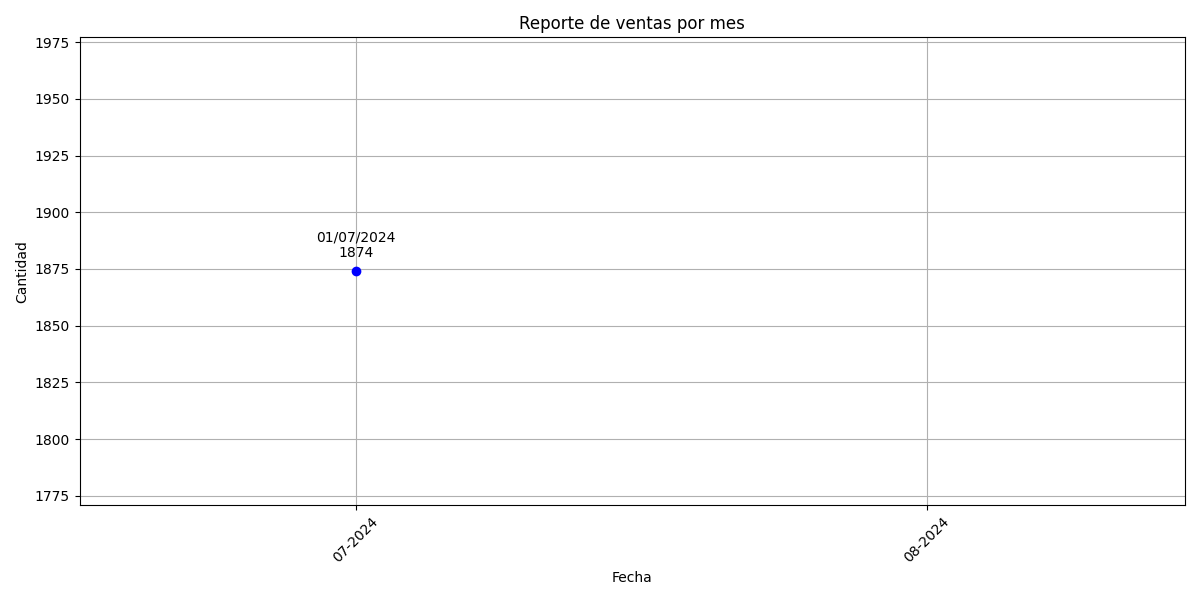
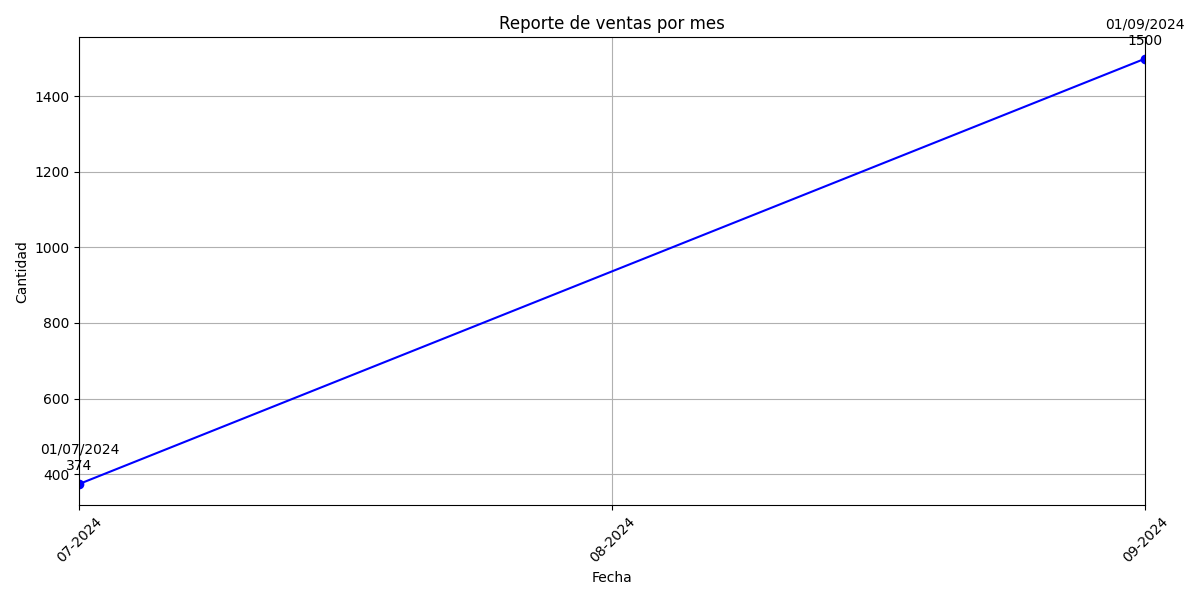
Validacion de archivos

diff --git a/Main/Productos.py b/Main/Productos.py
@@ -1,6 +1,8 @@
 import csv
 import json
 import os
+import re
+
 from reportlab.lib.pagesizes import letter
 from reportlab.lib import colors
 from reportlab.platypus import SimpleDocTemplate, Table, TableStyle, Spacer
@@ -28,39 +30,72 @@ class Producto:
 
     @classmethod
     def leer_archivo(cls):
-        #archivo_proveedores = 'C:\\Users\\Deniam\\OneDrive\\Documentos\\GitHub\\Tienda-convenencia\\Archivos\\Archivos_productos\\productos.csv'
         base_dir = os.path.dirname(os.path.abspath(__file__))
         archivo_proveedores = os.path.join(base_dir, 'Archivos', 'Archivos_productos', 'productos.csv')
+
+        codigos_procesados = set()
+        nombres_procesados = set()
+
         try:
             with open(archivo_proveedores, encoding='utf8') as archivo_productos:
                 reader = csv.DictReader(archivo_productos)
                 filas = list(reader)
                 if not filas or all(not any(row.values()) for row in filas):
-                    print('No hay datos que leer 1')
+                    print('No hay datos que leer')
                     return
                 for row in filas:
-                    producto = Producto(
-                        row["codigo"],
-                        row["nombre"],
-                        row["marca"],
-                        row["proveedor"],
-                        row["cantidad"],
-                        row["tamanio"],
-                        row["precio"],
-                        row["fecha_caducidad"]
-                    )
-                    Producto.lista_productos.append(producto)
-                    producto.entradas = row["entradas"]
-                    producto.salidas = row["salidas"]
-                    producto.stock = row["stock"]
-                    producto.existenciasAnteriores = row["existencias_anteriores"]
-                    producto.ajuste = row["ajuste"]
+                    codigo = row["codigo"]
+                    nombre = row["nombre"]
+
+                    if codigo in codigos_procesados or nombre in nombres_procesados:
+                        print(f'Fila ignorada por código o nombre duplicado: {row}')
+                        continue
+
+                    try:
+                        cantidad = int(row["cantidad"])
+                        precio = float(row["precio"])
+                        entradas = int(row["entradas"])
+                        salidas = int(row["salidas"])
+                        stock = int(row["stock"])
+
+                        if not (cantidad > 0 and precio > 0 and entradas >= 0 and salidas >= 0 and stock >= 0):
+                            print(f'Datos inválidos en la fila: {row}')
+                            continue
+
+                        if not re.match(r'^\d+(kg|g|L|ml|pcs|m|cm|in)$', row["tamanio"]):
+                            print(f'Formato de tamaño inválido en la fila: {row}')
+                            continue
+
+                        producto = Producto(
+                            codigo,
+                            nombre,
+                            row["marca"],
+                            row["proveedor"],
+                            cantidad,
+                            row["tamanio"],
+                            precio,
+                            row["fecha_caducidad"]
+                        )
+                        producto.entradas = entradas
+                        producto.salidas = salidas
+                        producto.stock = stock
+                        producto.existenciasAnteriores = int(row["existencias_anteriores"])
+                        producto.ajuste = int(row["ajuste"])
+
+                        Producto.lista_productos.append(producto)
+                        codigos_procesados.add(codigo)
+                        nombres_procesados.add(nombre)
+                    except ValueError as e:
+                        print(f'Valor incorrecto encontrado en los datos del archivo: {e}')
+                        continue
+
             print("Datos cargados correctamente")
         except FileNotFoundError:
             print(f'Archivo no encontrado: {archivo_proveedores}. Creando archivo nuevo...')
             os.makedirs(os.path.dirname(archivo_proveedores), exist_ok=True)
             with open(archivo_proveedores, mode='w', newline='', encoding='utf8') as archivo:
-                fieldnames = ["codigo", "nombre","marca","proveedor","cantidad","tamanio","precio","fecha_caducidad","entradas","salidas","stock","existencias_anteriores","ajuste"]
+                fieldnames = ["codigo", "nombre", "marca", "proveedor", "cantidad", "tamanio", "precio",
+                              "fecha_caducidad", "entradas", "salidas", "stock", "existencias_anteriores", "ajuste"]
                 writer = csv.DictWriter(archivo, fieldnames=fieldnames)
                 writer.writeheader()
             print(f'Archivo creado: {archivo_proveedores}')

diff --git a/Main/Proveedores.py b/Main/Proveedores.py
@@ -1,6 +1,7 @@
 import csv
 import json
 import os
+import re
 from tkinter import messagebox
 from reportlab.lib.pagesizes import letter
 from reportlab.lib import colors
@@ -24,11 +25,15 @@ class Proveedores:
 
     @classmethod
     def leer_archivo(cls):
-        #archivo_proveedores = 'C:\\Users\\Deniam\\OneDrive\\Documentos\\GitHub\\Tienda-convenencia\\Archivos\\Archivos_proveedores\\proveedores.csv'
         base_dir = os.path.dirname(os.path.abspath(__file__))
         archivo_proveedores = os.path.join(base_dir, 'Archivos', 'Archivos_proveedores', 'proveedores.csv')
-        try:
 
+        ids_procesados = set()
+        nombres_procesados = set()
+        correos_procesados = set()
+        telefonos_procesados = set()
+
+        try:
             with open(archivo_proveedores, encoding='utf8') as archivo:
                 reader = csv.DictReader(archivo)
                 filas = list(reader)
@@ -49,16 +54,43 @@ class Proveedores:
             # Leer datos y crear objetos Proveedores
             for row in filas:
                 if all(row.values()):
-                    proveedor = cls(row["nombre"], row["correo"], row["telefono"])
-                    proveedor.id = int(row["id"])  # Asignar el ID del archivo
+                    id = row["id"]
+                    nombre = row["nombre"]
+                    correo = row["correo"]
+                    telefono = row["telefono"]
+
+                    # Validar que los campos sean únicos
+                    if id in ids_procesados or nombre in nombres_procesados or correo in correos_procesados or telefono in telefonos_procesados:
+                        print(f'Fila ignorada por duplicado: {row}')
+                        continue
+
+                    # Validar el número de teléfono
+                    if not telefono.isdigit() or not (10 <= len(telefono) <= 15):
+                        print(f'Número de teléfono inválido: {telefono} en la fila {row}')
+                        continue
+
+                    # Validar el formato del correo
+                    if not re.match(r'^[\w\.-]+@[\w\.-]+\.\w+$', correo):
+                        print(f'Correo inválido: {correo} en la fila {row}')
+                        continue
+
+                    proveedor = cls(nombre, correo, telefono)
+                    proveedor.id = int(id)  # Asignar el ID del archivo
                     cls.proveedores.append(proveedor)
+
+                    # Añadir a los conjuntos de procesados
+                    ids_procesados.add(id)
+                    nombres_procesados.add(nombre)
+                    correos_procesados.add(correo)
+                    telefonos_procesados.add(telefono)
+
             print('Datos cargados exitosamente.')
 
         except FileNotFoundError:
             print(f'Archivo no encontrado: {archivo_proveedores}. Creando archivo nuevo...')
             os.makedirs(os.path.dirname(archivo_proveedores), exist_ok=True)
             with open(archivo_proveedores, mode='w', newline='', encoding='utf8') as archivo:
-                fieldnames = ["id","nombre","correo","telefono"]
+                fieldnames = ["id", "nombre", "correo", "telefono"]
                 writer = csv.DictWriter(archivo, fieldnames=fieldnames)
                 writer.writeheader()
             print(f'Archivo creado: {archivo_proveedores}')

diff --git a/Main/VentaP.py b/Main/VentaP.py
@@ -90,9 +90,13 @@ class Ventas:
             # Agrupar datos por mes y sumar cantidades
             ventas_agrupadas = defaultdict(int)
             for venta in cls.ventas_historial:
+                cantidad = int(venta["cantidad"])
+                if cantidad < 0:
+                    print(f"Cantidad negativa ignorada para la fecha {venta['fecha']}")
+                    continue
                 fecha = datetime.strptime(venta["fecha"], '%d/%m/%Y')  # Convertir la fecha a datetime
                 mes_anio = fecha.strftime('%Y-%m')  # Obtener año y mes
-                ventas_agrupadas[mes_anio] += int(venta["cantidad"])
+                ventas_agrupadas[mes_anio] += cantidad
 
             # Ordenar las fechas
             fechas = sorted(datetime.strptime(fecha, '%Y-%m') for fecha in ventas_agrupadas.keys())

diff --git a/Main/GUI/Productos1.py b/Main/GUI/Productos1.py
@@ -1,4 +1,4 @@
-from tkinter import ttk
+from tkinter import ttk, messagebox
 
 from login1 import *
 from login1 import *
